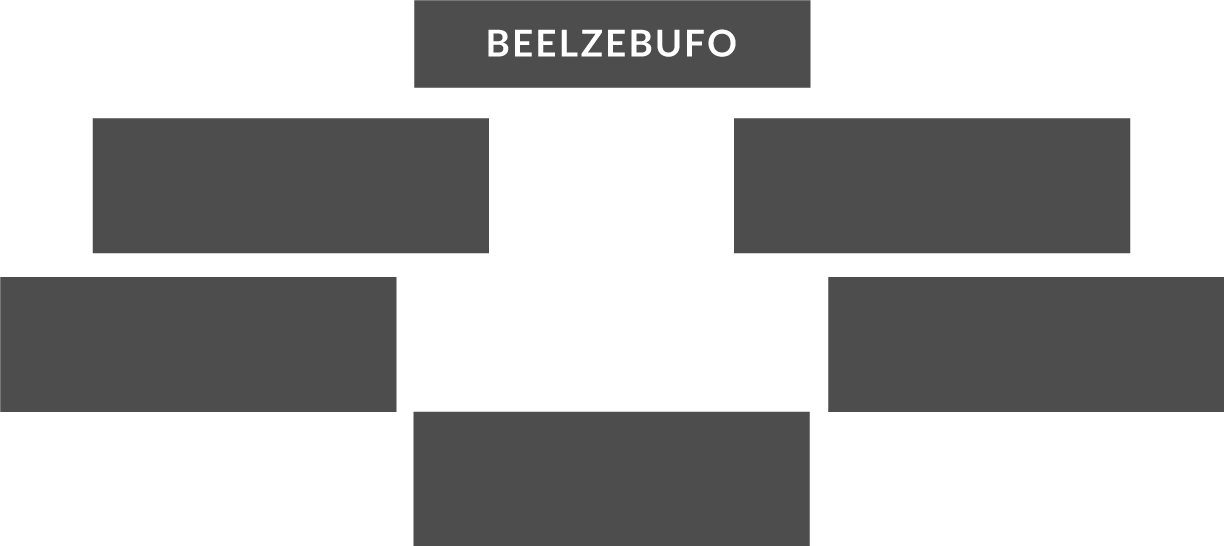
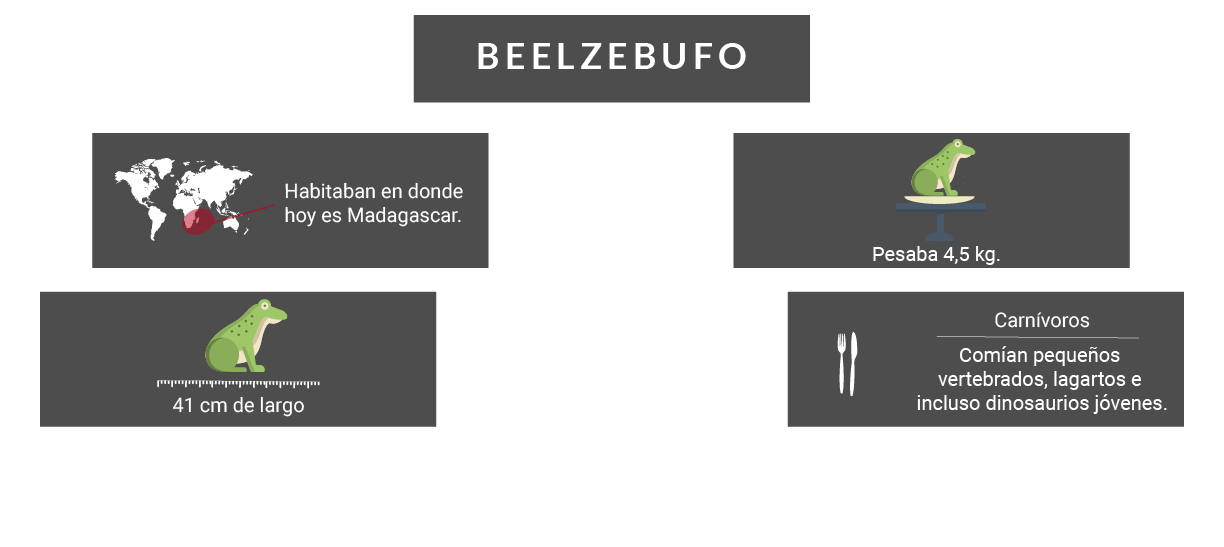
Caja blanca con info hipotesis

Changed region(s): [[0.0, 0.1557, 1.0, 1.0], [0.3415, 0.0, 0.683, 0.1245]]

diff --git a/js/cenozoico.js b/js/cenozoico.js
@@ -95,6 +95,26 @@ AFRAME.registerComponent('cenozoico', {
             this.infosarcosuchus.emit('ocultar')
         })
 
+        // otras hipotesis --------------------------------------------------Cambiar por modelo 3d
+        this.hipotesis = document.createElement('a-box')
+        this.hipotesis.setAttribute('color', '#FFFFFF')
+        this.hipotesis.setAttribute('position', { x: -4, y: .5, z: 4.3 })
+
+        el.appendChild(this.hipotesis)
+
+        //hipotesis Texto
+        this.createImage('texto-hipotesis', 'texto-hipotesis', '#texto-hipotesis', -1.2, 1.6, 1.2, 3.8, 0)
+        this.infohipotesis = document.querySelector('.texto-hipotesis')
+        this.infohipotesis.setAttribute('rotation', { x: 0, y: 140, z: 0 })
+        this.textAnimate(this.infohipotesis, 'showInfohipotesis', 'hiddenInfohipotesis', textH)
+
+        this.hipotesis.addEventListener('click', () => {
+            this.infohipotesis.emit('mostrar')
+        })
+        this.infohipotesis.addEventListener('mouseleave', () => {
+            this.infohipotesis.emit('ocultar')
+        })
+
         //Mapa
         //0 = nada
         //1 = helecho

diff --git a/index.html b/index.html
@@ -36,6 +36,7 @@
                 <img id="texto-hadrosaurus" src="assets/img/texto-hadrosaurus.png">
                 <img id="texto-beelzebufo" src="assets/img/texto-beelzebufo.png">
                 <img id="texto-sarcosuchus" src="assets/img/texto-sarcosuchus.png">
+                <img id="texto-hipotesis" src="assets/img/texto-hipotesis.png">
         </a-assets>
 
 
